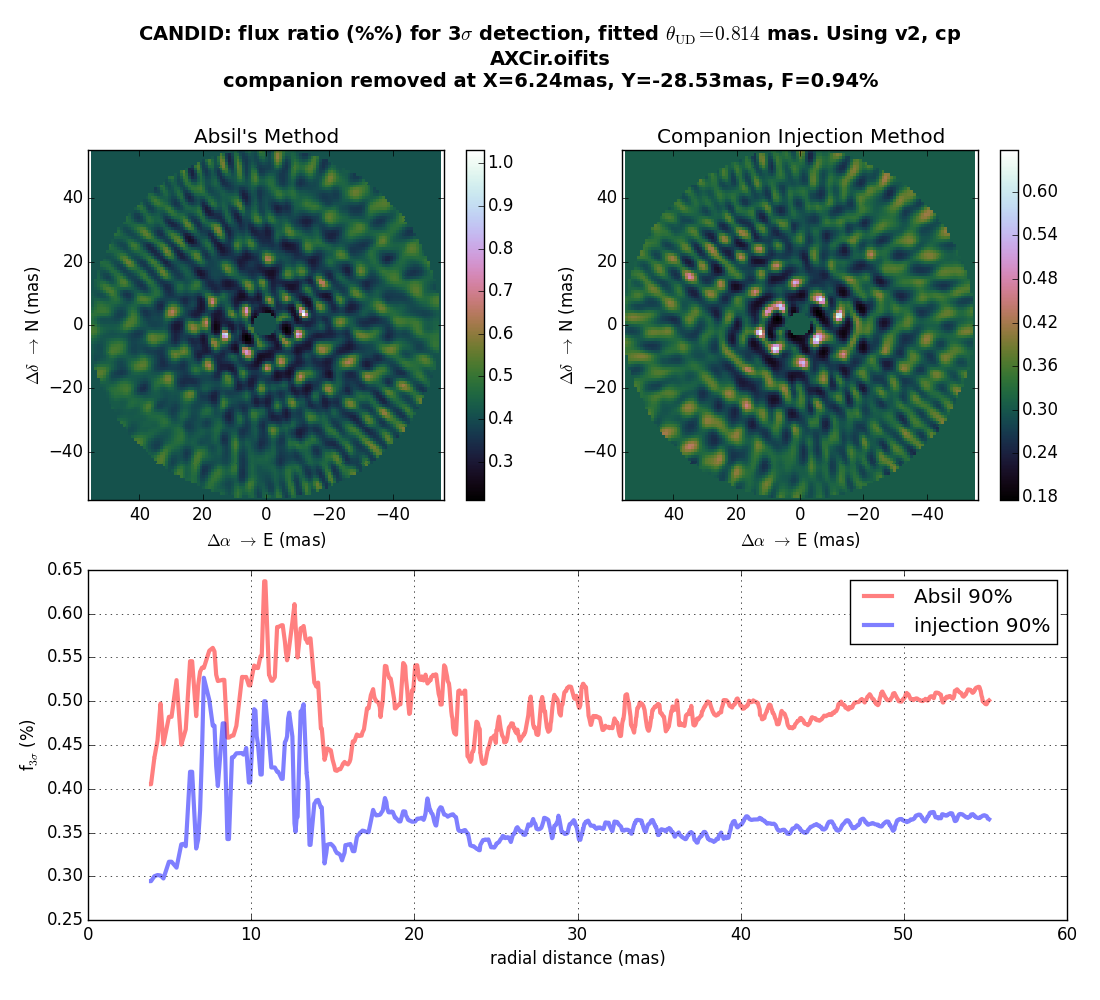
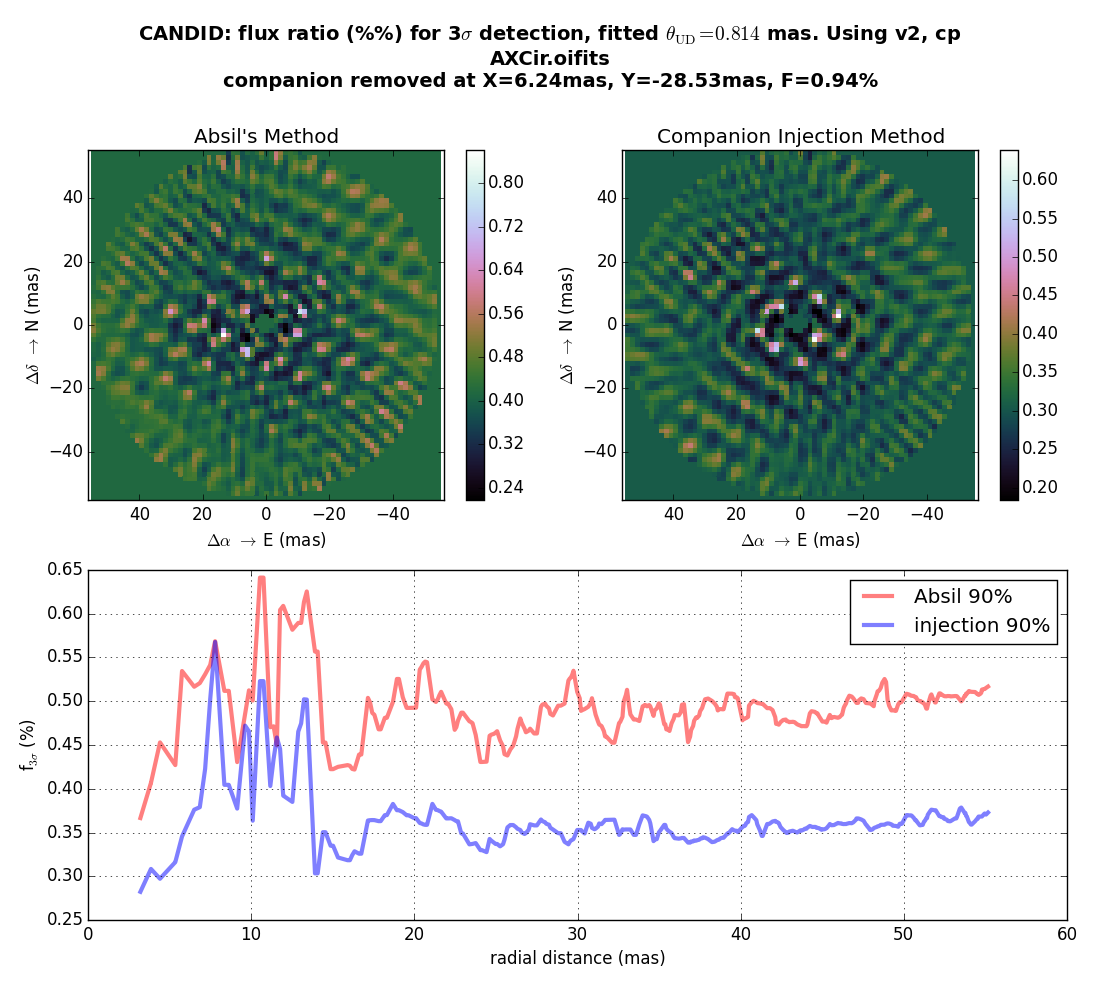
version of published paper

diff --git a/candid.py b/candid.py
@@ -32,8 +32,6 @@ import os
 #__version__ = '0.8 | 2015/02/19' # can load directories instead of single files, AMBER added, ploting V2, CP
 __version__ = '0.9 | 2015/02/25' # adding polynomial reduction (as function of wavelength) to V2 et CP
 
-
-
 """
 # --------------------
 # -- standard test: --
@@ -553,7 +551,7 @@ class Open:
 
         print ' > compute aux data for companion injection'
         self._compute_delta()
-        #self.estimateCorrSpecChannels()
+        self.estimateCorrSpecChannels()
         # -- all MJDs in the files:
         mjds = []
         for d in self._rawData:
@@ -871,11 +869,13 @@ class Open:
             if r[0].split(';')[0] == 'v2':
                 self._delta.append(None)
         return
-    def estimateCorrSpecChannels(self):
+    def estimateCorrSpecChannels(self, verbose=False):
         """
         estimate correlation between spectral channels
         """
         self.corrSC = []
+        if verbose:
+            print ' > Estimating correlations in error bars within spectral bands (E**2 == E_stat**2 + E_syst**2):'
         for d in self._rawData:
             tmp = []
             #print d[0], d[-1].shape
@@ -885,8 +885,10 @@ class Open:
                 model = _dpfit_leastsqFit(_dpfit_polyN, d[-4][k],
                                           {'A'+str(i):0.0 for i in range(n)},
                                           d[-2][k], d[-1][k])['model']
-                tmp.append( _estimateCorrelation(d[-2][k], d[-1][k], model)**2/np.mean(d[-1][k]**2))
+                tmp.append( _estimateCorrelation(d[-2][k], d[-1][k], model))
             self.corrSC.append(tmp)
+            if verbose:
+                print '   ', d[0], '<E_syst / E_stat> = %4.2f'%(np.mean(tmp))
         return
 
     def ndata(self):
@@ -1478,7 +1480,8 @@ class Open:
             for s in tmp:
                 print ' | %5s='%s, '%8.4f +- %6.4f %s'%(fit['best'][s], fit['uncer'][s], paramUnits(s))
         return
-    def fitBoot(self, N=None, param=None, fig=2, fitAlso=None, doNotFit=None, useMJD=True, monteCarlo=False, corrSpecCha=None):
+
+    def fitBoot(self, N=None, param=None, fig=2, fitAlso=None, doNotFit=None, useMJD=True, monteCarlo=False, corrSpecCha=None, nSigmaClip=3.5):
         """
         boot strap fitting around a single position. By default,
         the position is the best position found by fitMap. It can also been entered
@@ -1508,8 +1511,8 @@ class Open:
         except:
             pass
         if N is None:
-            print " > 'N=' not given, setting it to Ndata"
-            N = max(self.ndata(), 100)
+            print " > 'N=' not given, setting it to Ndata/2"
+            N = max(self.ndata()/2, 100)
 
         print " > running N=%d fit"%N,
         self._progTime = [time.time(), time.time()]
@@ -1535,8 +1538,8 @@ class Open:
                 print " | Increase CONFIG['longExecWarning'] if you want to run longer computations."
                 print " | set it to 'None' and the warning will disapear... at your own risks!"
                 return
-        else:
-            print ''
+
+        print ''
         tmp = {k:param[k] for k in param.keys()}
         for _k in self.dwavel.keys():
             tmp['dwavel;'+_k] = self.dwavel[_k]
@@ -1560,9 +1563,9 @@ class Open:
             tmp = {k:param[k] for k in param.keys()}
             for _k in self.dwavel.keys():
                 tmp['dwavel;'+_k] = self.dwavel[_k]
-            if i==0:
-                print ' > inital parameters set to param=', tmp
-                print ''
+            # if i==0:
+            #     print ' > inital parameters set to param=', tmp
+            #     print ''
 
             tmp['_k'] = i
             data = []
@@ -1621,21 +1624,23 @@ class Open:
         kz.sort()
         ax = {}
         # -- sigma cliping on the chi2
-        nsigma = 5
-        # print ' > sigma clipping in Chi2 for nSigmas= %3.1f'%(nsigma)
-        # chi2 = np.array([a['chi2'] for a in self.allFits])
-        # w = np.where((chi2<=np.median(chi2) + nsigma*(np.percentile(chi2, 84)-np.median(chi2)))*
-        #              (chi2>=np.median(chi2) + nsigma*(np.percentile(chi2, 16)-np.median(chi2))))
-        # print ' | %d fits ignored'%(len(chi2)-len(w[0]))
 
-        print ' > sigma clipping in position for nSigmas= %3.1f'%(nsigma)
+        print ' > sigma clipping in position and flux ratio for nSigmaClip= %3.1f'%(nSigmaClip)
         x = np.array([a['best']['x'] for a in self.allFits])
         y = np.array([a['best']['y'] for a in self.allFits])
+        f = np.array([a['best']['f'] for a in self.allFits])
+        d = np.array([a['best']['diam*'] for a in self.allFits])
 
-        w = np.where((x<=np.median(x) + nsigma*(np.percentile(x, 84)-np.median(x)))*
-                     (x>=np.median(x) + nsigma*(np.percentile(x, 16)-np.median(x)))*
-                     (y<=np.median(y) + nsigma*(np.percentile(y, 84)-np.median(y)))*
-                     (y>=np.median(y) + nsigma*(np.percentile(y, 16)-np.median(y))))
+
+        w = np.where((x<=np.median(x) + nSigmaClip*(np.percentile(x, 84)-np.median(x)))*
+                     (x>=np.median(x) + nSigmaClip*(np.percentile(x, 16)-np.median(x)))*
+                     (y<=np.median(y) + nSigmaClip*(np.percentile(y, 84)-np.median(y)))*
+                     (y>=np.median(y) + nSigmaClip*(np.percentile(y, 16)-np.median(y)))*
+                     (f<=np.median(f) + nSigmaClip*(np.percentile(f, 84)-np.median(f)))*
+                     (f>=np.median(f) + nSigmaClip*(np.percentile(f, 16)-np.median(f)))*
+                     (d<=np.median(d) + nSigmaClip*(np.percentile(d, 84)-np.median(d)))*
+                     (d>=np.median(d) + nSigmaClip*(np.percentile(d, 16)-np.median(d)))
+                     )
         print ' | %d fits ignored'%(len(x)-len(w[0]))
 
 
@@ -1708,7 +1713,8 @@ class Open:
                     res['boot'][k1]=(med, errp,errm)
                 if i2==len(kz)-1:
                     plt.xlabel(k1)
-        return res
+        return
+        # -_-_-
     def plotModel(self, param=None, fig=3):
         """
         param: what companion model to plot. If None, will attempt to use self.bestFit
@@ -1751,8 +1757,8 @@ class Open:
             plt.xlabel('B/$\lambda$')
             plt.ylabel('residuals ($\sigma$)')
             plt.ylim(-np.max(np.abs(plt.ylim())), np.max(np.abs(plt.ylim())))
-        print _meas.shape, _mod.shape
-
+        #print _meas.shape, _mod.shape
+        return
     def _cb_nsigmaFunc(self, r):
         """
         callback function for detectionLimit()
@@ -2282,25 +2288,31 @@ def _decomposeObs(wl, data, err, order=1, plot=False):
 def _estimateCorrelation(data, errors, model):
     """
     assumes errors**2 = stat**2 + sys**2, will compute sys so the chi2 from stat error bars is 1.
+
+    estimate the average correlation in a sample (sys/<err>)
     """
     sys = np.min(errors)/2.
-    fact = 0.8
+    fact = 0.5
     chi2 = np.mean((data-model)**2/(errors**2-sys**2))
     tol = 1.e-3
-    if chi2 <= 1:
-        return 0.0
-
-    while np.abs(chi2-1)>tol and sys/np.min(errors)>tol:
+    # if chi2 <= 1:
+    #      return 0.0
+    n = 0
+    #print '%4.2f'%chi2, '->',
+    while np.abs(chi2-1)>tol and sys/np.min(errors)>tol and n<20:
         #print sys, chi2
         if chi2>1:
             sys *= fact
-        elif chi2<1:
+        else:
             sys /= fact
         _chi2 = np.mean((data-model)**2/(errors**2-sys**2))
         if (chi2-1)*(_chi2-1)<0:
             fact = np.sqrt(fact)
         chi2 = _chi2
-    return sys
+        n+=1
+    #print '%5.2f : ERR=%5.3f SYS=%5.3f STA=%5.3f %2d'%(chi2, np.mean(errors),
+    #                                                   sys, np.sqrt(np.mean(errors**2)-sys**2), n)
+    return sys/np.mean(errors)
 
 class pca():
     """

diff --git a/README.md b/README.md
@@ -84,18 +84,18 @@ Doing a grid of fit is much more efficient than doing a simple Chi2 Map (like fo
  > UD Fit
  | best fit diameter: 0.932 +- 0.006 mas
  | chi2 UD = 0.975
- > Grid Fitting 30x30: ... it should take about 79 seconds
- |================================================== |  99%   0 s remainingg
+ > Grid Fitting 30x30: ... it should take about 54 seconds
+ |================================================== |  99%   0 s remaining
  | Computing map of interpolated Chi2 minima
- | 286 individual minima for 643 fits
- | 10, 50, 90 percentiles for fit displacement: 1.1, 2.6, 5.1 mas
- | Grid has the correct steps of 3.78mas, optimimum step size found to be 3.56mas
- > BEST FIT 0: chi2= 0.74
- |     x=  6.22e+00 +- 5.96e-02
- |     y= -2.85e+01 +- 7.74e-02
- |     f=  8.33e-01 +- 3.83e-02
- | diam*=  8.30e-01 +- 7.68e-03
- | chi2r_UD=0.98, chi2r_BIN=0.74, NDOF=1499 -> n sigma: 13.89
+ | 255 individual minima for 643 fits
+ | 10, 50, 90 percentiles for fit displacement: 1.1, 2.8, 5.3 mas
+ | Grid has the correct steps of 3.78mas, optimimum step size found to be 3.81mas
+ > BEST FIT 0: chi2= 0.73
+ |     x=   6.2403 +- 0.0575 mas
+ |     y= -28.5270 +- 0.0835 mas
+ |     f=   0.9395 +- 0.0423 %
+ | diam*=   0.8156 +- 0.0081 mas
+ | chi2r_UD=0.98, chi2r_BIN=0.73, NDOF=1499 -> n sigma: 14.35 (assumes uncorr data)
 ```
 ![Figure 2](https://github.com/amerand/CANDID/blob/master/doc/figure_2.png)
 
@@ -109,20 +109,20 @@ CANDID offers the possibility, once a companion has been detected, to remove it 
  > observables: ['v2', 'cp']
  > Preliminary analysis
  > UD Fit
- | best fit diameter: 0.829 +- 0.006 mas
- | chi2 UD = 0.747
- > Grid Fitting 30x30: ... it should take about 28 seconds
+ | best fit diameter: 0.814 +- 0.006 mas
+ | chi2 UD = 0.738
+ > Grid Fitting 30x30: ... it should take about 32 seconds
  |================================================== |  99%   0 s remaining
  | Computing map of interpolated Chi2 minima
- | 362 individual minima for 643 fits
- | 10, 50, 90 percentiles for fit displacement: 1.0, 2.6, 5.1 mas
- | Grid has the correct steps of 3.78mas, optimimum step size found to be 3.68mas
- > BEST FIT 0: chi2= 0.70
- |     x=  6.53e+00 +- 1.26e-01
- |     y=  2.31e+00 +- 1.75e-01
- |     f=  3.64e-01 +- 3.66e-02
- | diam*=  7.66e-01 +- 9.17e-03
- | chi2r_UD=0.75, chi2r_BIN=0.70, NDOF=1499 -> n sigma:  2.17
+ | 308 individual minima for 643 fits
+ | 10, 50, 90 percentiles for fit displacement: 1.2, 3.1, 6.4 mas
+ | Grid has the correct steps of 3.78mas, optimimum step size found to be 4.25mas
+ > BEST FIT 0: chi2= 0.69
+ |     x=   6.6173 +- 0.1284 mas
+ |     y=   2.4005 +- 0.1745 mas
+ |     f=   0.3648 +- 0.0373 %
+ | diam*=   0.7491 +- 0.0094 mas
+ | chi2r_UD=0.74, chi2r_BIN=0.69, NDOF=1499 -> n sigma:  2.10 (assumes uncorr data)
 ```
 
 ![Figure 3](https://github.com/amerand/CANDID/blob/master/doc/figure_3.png)
@@ -133,10 +133,15 @@ In order to better estimate the uncertainties on the companion we found, we can 
 On the correlations plots, the red dot with error bars is the fitted position; the blue ellipses are derived from the bootstrap (using a principal component analysis); the values given for each parameters are the median; the uncertainties are the 16% and 84% percentile (one sigma).
 
 ```
->>> axcir.fitBoot(param=p)
- > 'N=' not given, setting it to Ndata / 3
- > running 'N='500 fit ... it should take about 3 seconds
+>>> axcir.fitBoot(fig=4, param=p)
+ > 'N=' not given, setting it to Ndata/2
  |================================================== |  99%   0 s remaining
+ > sigma clipping in position and flux ratio for nSigmaClip= 3.5
+ | 3 fits ignored
+ |    diam* =   0.8144 + 0.0118 - 0.0158 mas
+ |        f =   0.9505 + 0.0984 - 0.1062 %
+ |        x =   6.2286 + 0.0950 - 0.1467 mas
+ |        y = -28.5341 + 0.1343 - 0.2424 mas
 ```
 
 ![Figure 4](https://github.com/amerand/CANDID/blob/master/doc/figure_4.png)
